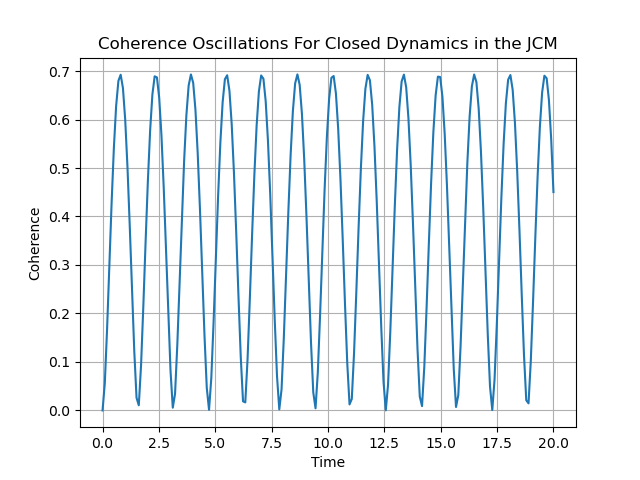
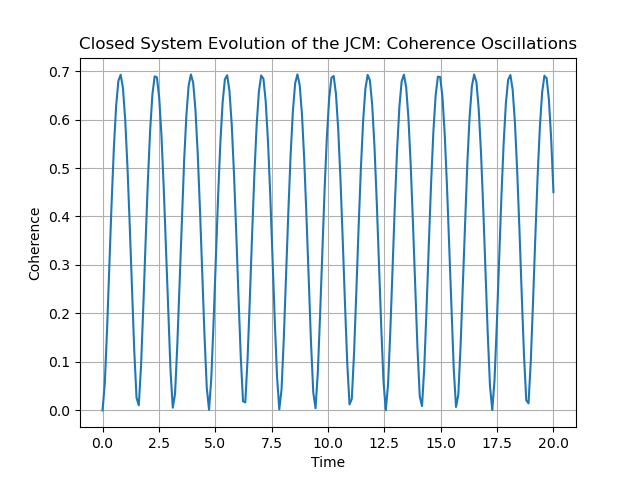
Adds simulations for TLS and QHO decay in OQS approach.

Changed region(s): [[0.125, 0.0625, 0.9062, 0.125]]

diff --git a/Research Project/Code/JCM_simulation.py b/Research Project/Code/JCM_simulation.py
@@ -1,12 +1,12 @@
 from TLSQHOSimulator import TLSQHOSimulator
 import qutip as q
 import numpy as np
+from scipy.constants import k as k_B
 
 # constants
 w = 1.0
 g = 1.0
 N = 2
-gamma = np.sqrt(0.1)
 
 # Bases
 basis_atom_e = q.basis(2, 0)
@@ -32,33 +32,67 @@ results_closed = sim_closed.evolve()
 vne_closed = sim_closed.vne(results_closed)
 coherence_closed = sim_closed.rel_coherence(results_closed)
 
-# Open Dynamics
-L = gamma * s_lower
+# Open Dynamics (Spontaneous Emission)
+gamma = np.sqrt(0.1)
+
+L_tls = gamma * s_lower
 times_open = np.linspace(0.0, 500.0, 200)
 e_ops = [adag * a, s_raise * s_lower]
-sim_open = TLSQHOSimulator(H, psi0, L, e_ops, times_open)
-results_open = sim_open.evolve()
-expect_open = sim_open.expect(results_open)
+sim_open_tls = TLSQHOSimulator(H, psi0, L_tls, e_ops, times_open)
+results_open_tls = sim_open_tls.evolve()
+expect_open_tls = sim_open_tls.expect(results_open_tls)
+
+# Open Dynamics (QHO Photon Loss)
+gamma_th = 0.1
+T = 300  # avg T in Kelvin
+n_omega = 1 / (np.exp(w / (k_B * T)) - 1)
+kappa = gamma_th * (1 + n_omega)
+
+L_qho = kappa * a
+sim_open_qho = TLSQHOSimulator(H, psi0, L_qho, e_ops, times_open)
+results_open_qho = sim_open_qho.evolve()
+expect_open_qho = sim_open_qho.expect(results_open_qho)
+
+L_tlsqho = [L_qho, L_tls]
+sim_open_tlsqho = TLSQHOSimulator(H, psi0, L_tlsqho, e_ops, times=np.linspace(0.0, 2000.0, 200))
+results_open_tlsqho = sim_open_tlsqho.evolve()
+expect_open_tlsqho = sim_open_tlsqho.expect(results_open_tlsqho)
 
 
 # Plots
 sim_closed.plot(
     vne_closed,
-    "Entanglement Oscillations For Closed Dynamics in the JCM",
+    "Closed System Evolution of the JCM: Entanglement Oscillations",
     "Entanglement",
     "JCM_CQS_ent",
 )
 sim_closed.plot(
     coherence_closed,
-    "Coherence Oscillations For Closed Dynamics in the JCM",
+    "Closed System Evolution of the JCM: Coherence Oscillations",
     "Coherence",
     "JCM_CQS_coh",
 )
 
-sim_open.plot(
-    expect_open,
-    "Expectation Values of Atom and QHO for Open Dynamics in the JCM",
+sim_open_tls.plot(
+    expect_open_tls,
+    "Open System Evolution of the JCM: Dynamics of Spontaneous Atomic Emission",
     "Expectation Values",
-    "JCM_OQS_expect",
+    "JCM_OQS_TLS_Decay",
+    ["cavity photon number", "atom excitation probability"],
+)
+
+sim_open_qho.plot(
+    expect_open_qho,
+    "Open System Evolution of the JCM: Dynamics of QHO Photon Loss",
+    "Expectation Values",
+    "JCM_OQS_QHO_loss",
+    ["cavity photon number", "atom excitation probability"],
+)
+
+sim_open_tlsqho.plot(
+    expect_open_tlsqho,
+    "Open System Evolution of the JCM: Dynamics of TLS, QHO Decay",
+    "Expectation Values",
+    "JCM_OQS_QHOTLS",
     ["cavity photon number", "atom excitation probability"],
 )
